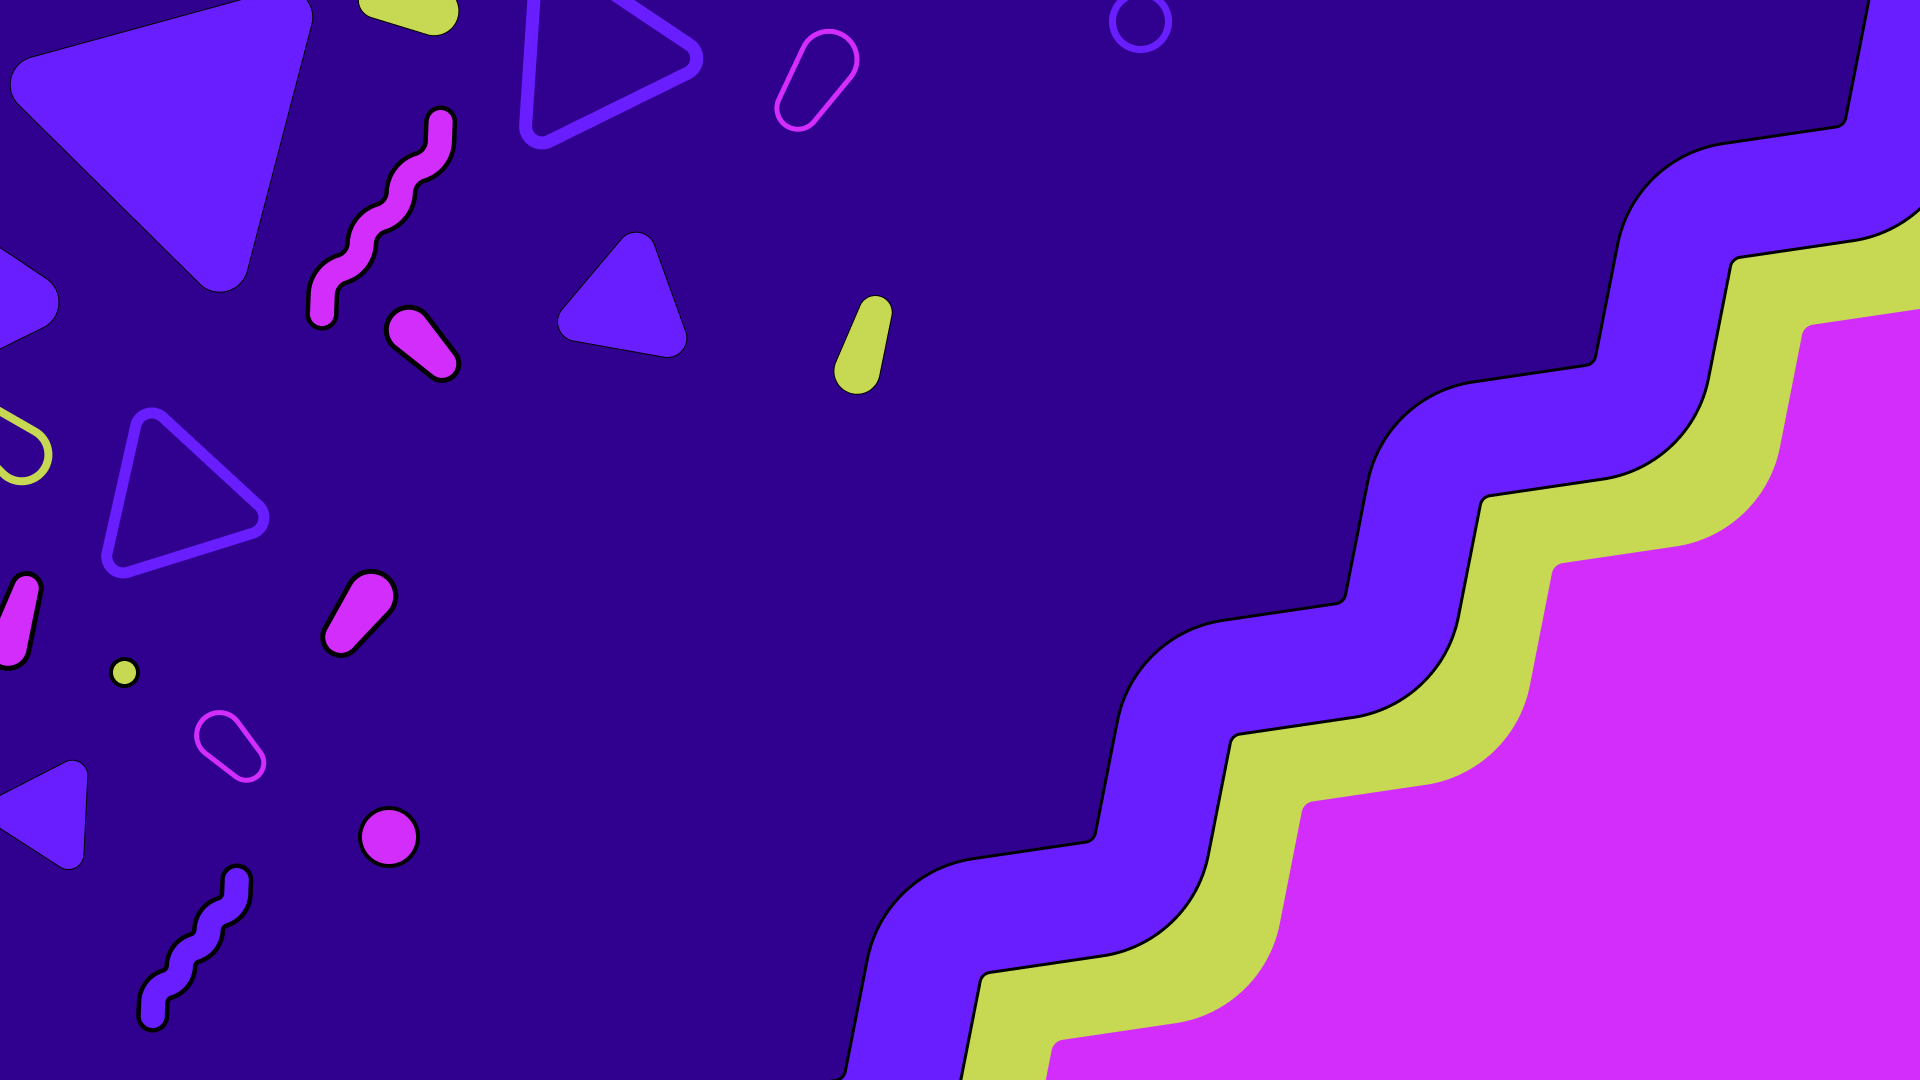
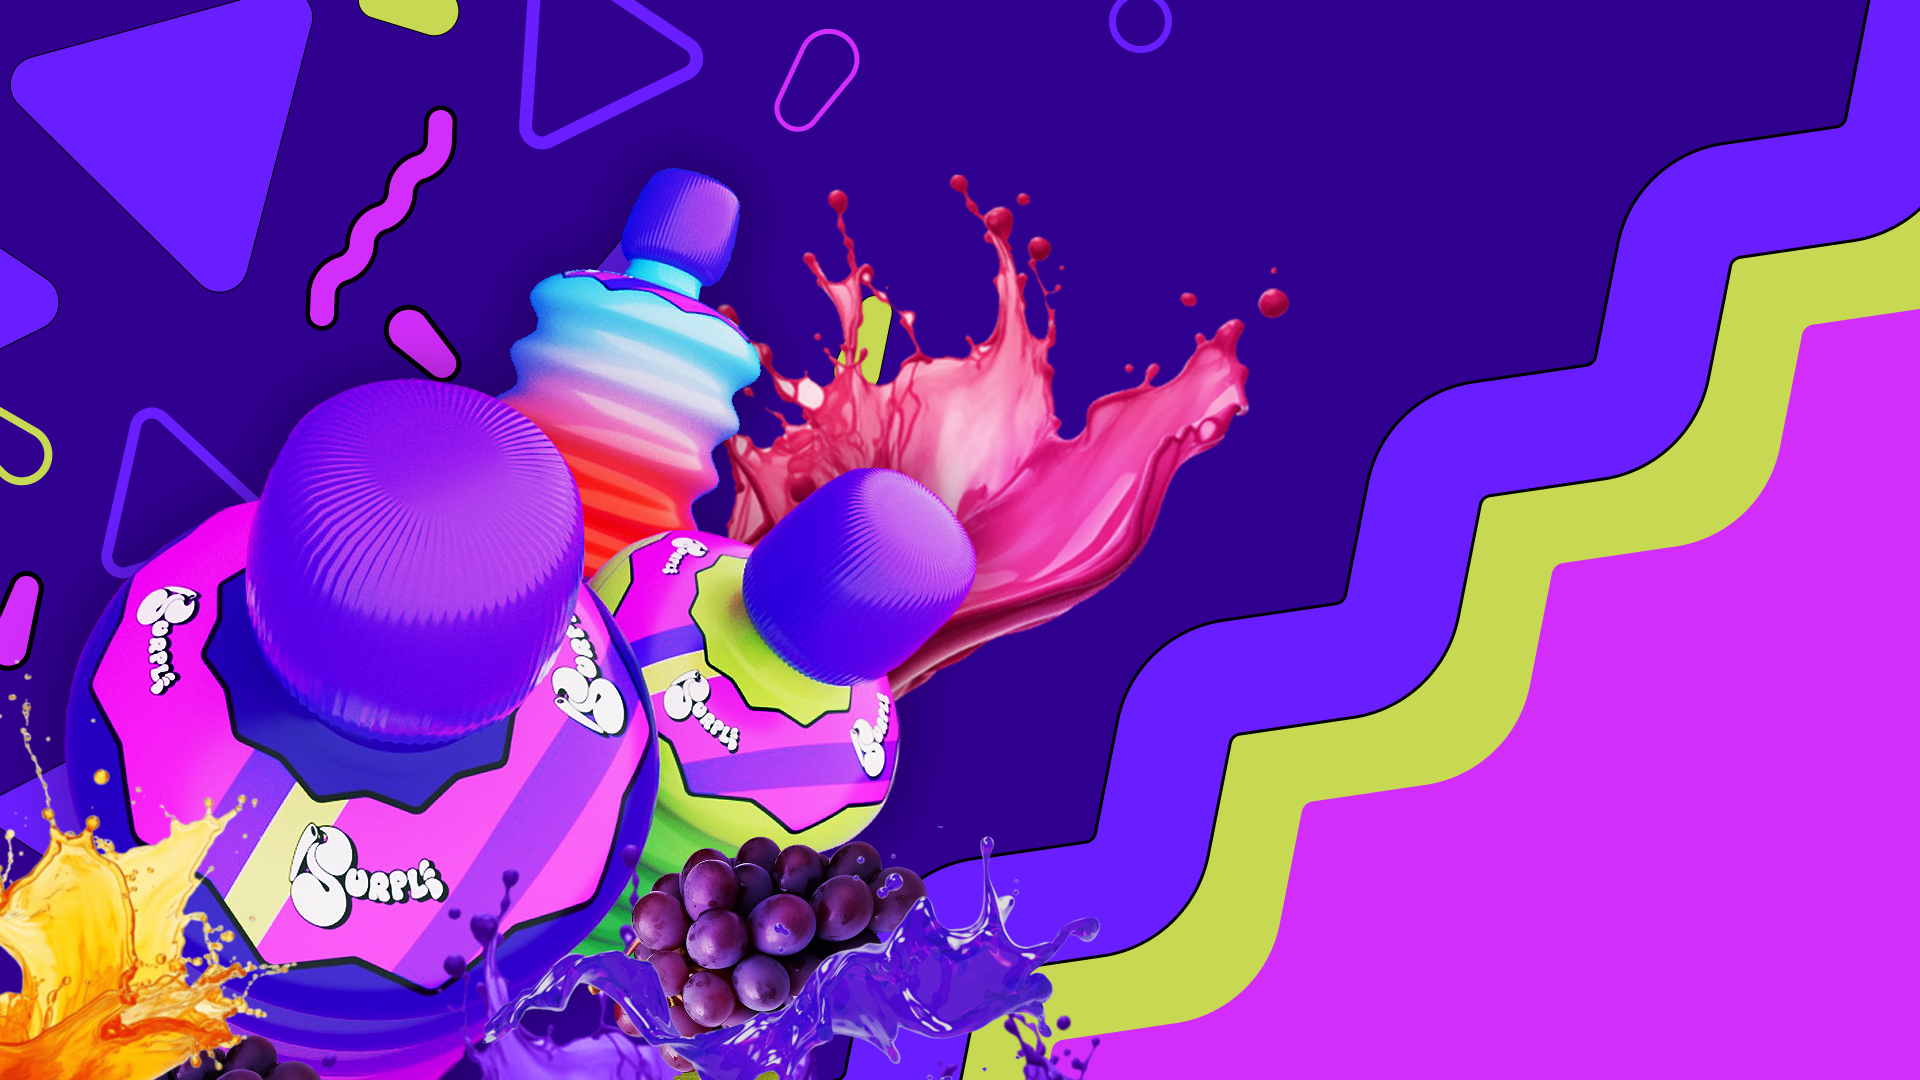
Adding Nested Grids

diff --git a/css/main.css b/css/main.css
@@ -12,10 +12,16 @@
   font-style: normal;
 }
 
+/* General Styles */
+
 body {
    font-family: 'righteous', 'Lucida Sans', 'Lucida Sans Regular', 'Lucida Grande', 'Lucida Sans Unicode', Geneva, Verdana, sans-serif;
    color: #8800ff;
    margin: 0;
+}
+
+h2 {
+   font-size: 24px;
 }
 
 /*---1. HEADER & NAVIGATION ---*/
@@ -23,7 +29,9 @@ body {
 #header {
     display: grid;
     grid-template-columns: 1fr;
+    justify-items: center; 
     align-items: start; 
+    overflow: hidden;
 }
 
 #hero-image, 
@@ -34,8 +42,13 @@ body {
 }
 
 #hero-image {
+   grid-column: 1;
+   grid-row: 1;
    width: 100%;
+   max-width: 1920px; 
    z-index: 1;
+   display: block;
+   justify-self: center;
 }
 
 /* Top Navigation */
@@ -61,22 +74,22 @@ body {
 }
 
 nav ul {
-    list-style: none;
-    padding: 0;
-    margin: 0;
-    display: flex;
-    justify-content: space-around;
+   list-style: none;
+   padding: 0;
+   margin: 0;
+   display: flex;
+   justify-content: space-around;
 }
 
 nav a {
-    text-decoration: none;
-    color: rgb(71, 14, 158);
-    font-weight: bold;
+   text-decoration: none;
+   color: rgb(71, 14, 158);
+   font-weight: bold;
 }
 
 /* Icon Common Styles */
 #shopping-cart, #search-icon, #profile-icon, #burger-con {
-  grid-row: 1;      /* Keep on the same level as logo */
+  grid-row: 1;     
   cursor: pointer;
   display: flex;
   align-items: center;
@@ -84,8 +97,8 @@ nav a {
 }
 
 #shopping-cart img, #search-icon img, #profile-icon img, #burger-con img {
-    height: 30px;
-    width: auto;
+   height: 30px;
+   width: auto;
 }
 
 /* Hover Effects */
@@ -100,14 +113,14 @@ nav a {
 
 /* Information on Hero */
 #hero-info {
-    z-index: 50; 
-    align-self: center; 
-    justify-self: center; 
-    display: flex;
-    flex-direction: column;
-    align-items: center;
-    text-align: center;
-    pointer-events: none;
+   z-index: 50; 
+   align-self: center; 
+   justify-self: center; 
+   display: flex;
+   flex-direction: column;
+   align-items: center;
+   text-align: center;
+   pointer-events: none;
 }
 
 #hero-info h2 {
@@ -144,13 +157,6 @@ nav a {
    min-height: 300px;
 }
 
-.box {
-    background-color: #f2f2f2;
-    padding: 20px;
-    text-align: center;
-    border-radius: 10px;
-}
-
 /*---3. FOOTER & SLIDESHOW ---*/
 
 #footer {
@@ -159,6 +165,40 @@ nav a {
    padding: 40px 0;
    text-align: center;
    background: #30008F;
+}
+
+#footer-nav nav {
+    display: block;
+}
+#footer-nav ul {
+    list-style: none;     
+    padding: 0; 
+    margin: 0;
+    display: flex;  
+    flex-direction: column;
+    align-items: center; 
+    gap: 12px;         
+}
+
+#footer-nav a {
+    text-decoration: none;
+    color: #FAFBF5;         
+    font-family: 'righteous', sans-serif;
+    font-size: 18px;
+}
+
+#footer-follow-us ul {
+    display: flex;
+    flex-direction: column; 
+    align-items: center;    
+    gap: 10px;              
+    list-style: none;      
+    padding: 0;
+}
+
+#footer-follow-us img {
+    width: 30px;      
+    height: auto;
 }
 
 #slideshow img {
@@ -231,6 +271,11 @@ nav, #search-icon, #profile-icon {
 
     #logo {
         width: 140px;
+    }
+
+    #footer-follow-us ul {
+        flex-direction: row; 
+        justify-content: center;
     }
 }
 

diff --git a/index.html b/index.html
@@ -11,7 +11,12 @@
         <h1 class="visually-hidden">Navigation Home Bar</h1>
         <header id="header" class="full-width-grid-con">
     
-    <img src="images/hero-main.png" alt="burple hero image" id="hero-image" class="col-span-full">
+            <picture id="hero-image">
+                <source srcset="images/hero-main.png" media="(min-width:900px)">
+                <source srcset="images/hero-main-873.png" media="(min-width:768px)">
+                <img src="images/hero-main-412.png" alt="Burple bottles splashing out of juice">
+            </picture>
+ 
 
     <section id="nested-hero-grid" class="grid-con center-grid-con">
         <h2 class="visually-hidden">Navigation</h2>
@@ -70,6 +75,16 @@
             <section id="slideshow" class="grid-con center-grid-con">
                 <h2 class="hidden">Slideshow/Advertisement</h2>
                 <div class="col-span-full">
+                    <img
+                    sizes="(max-width: 2180px) 100vw, 2180px"
+                    srcset="
+                    promo1_r89aho_c_scale,w_190.png 190w,
+                    promo1_r89aho_c_scale,w_920.png 920w,
+                    promo1_r89aho_c_scale,w_1416.png 1416w,
+                    promo1_r89aho_c_scale,w_1802.png 1802w,
+                    promo1_r89aho_c_scale,w_2180.png 2180w"
+                    src="images/promo1_r89aho_c_scale,w_2180.png"
+                    alt="">
                     <img src="images/promo1.png" alt="promo pic for burple">
                 </div>
             </section>
